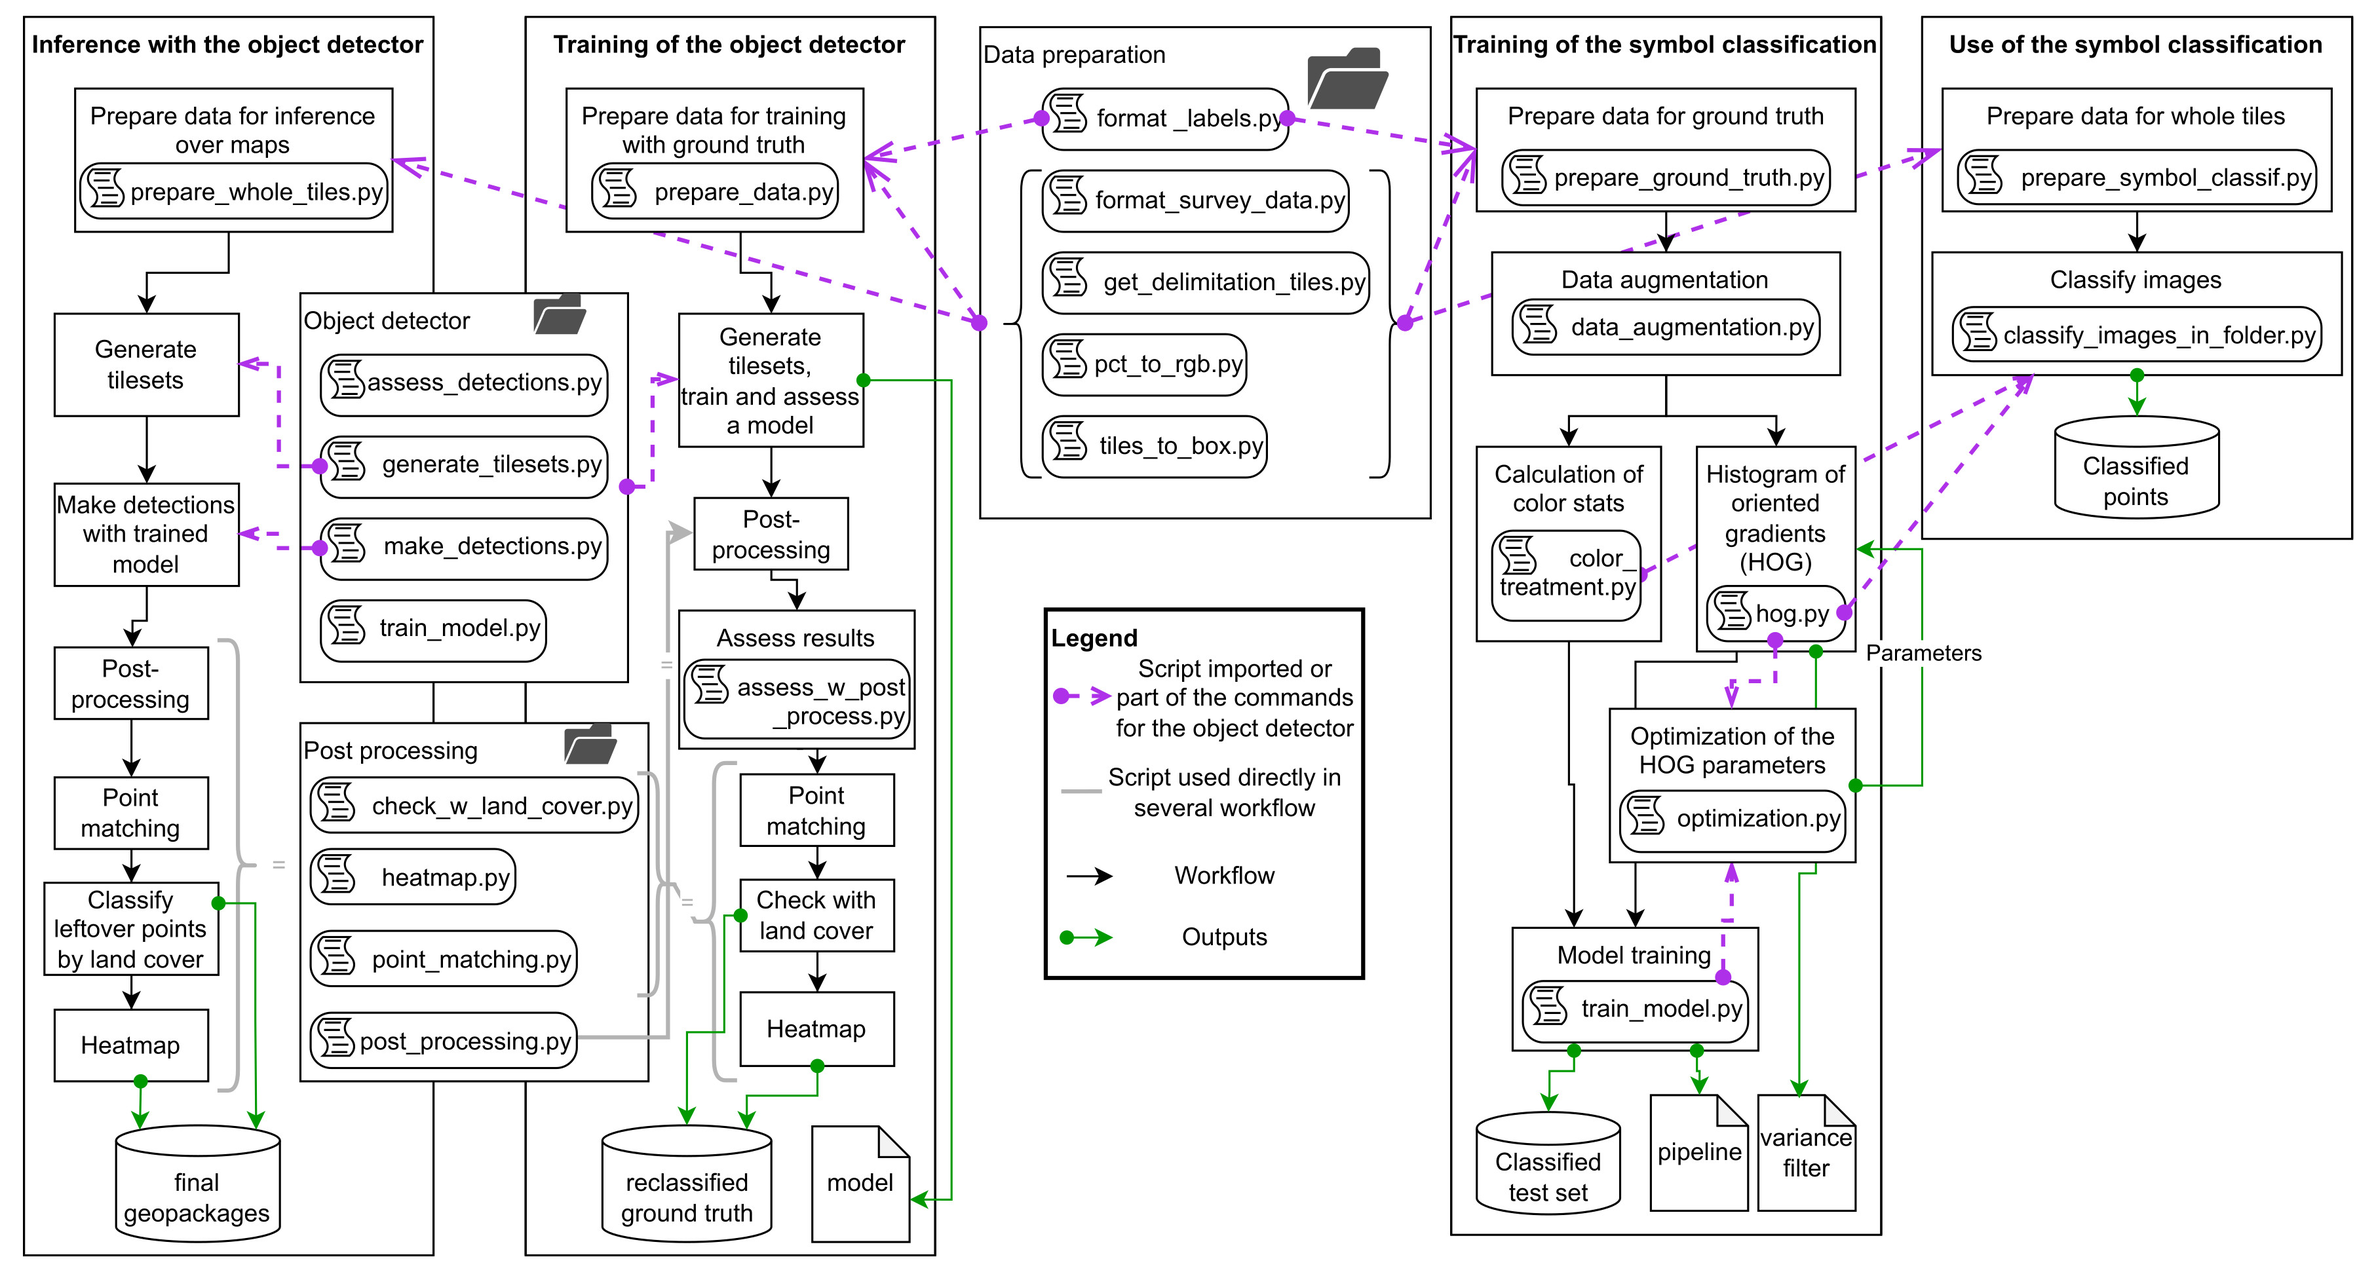
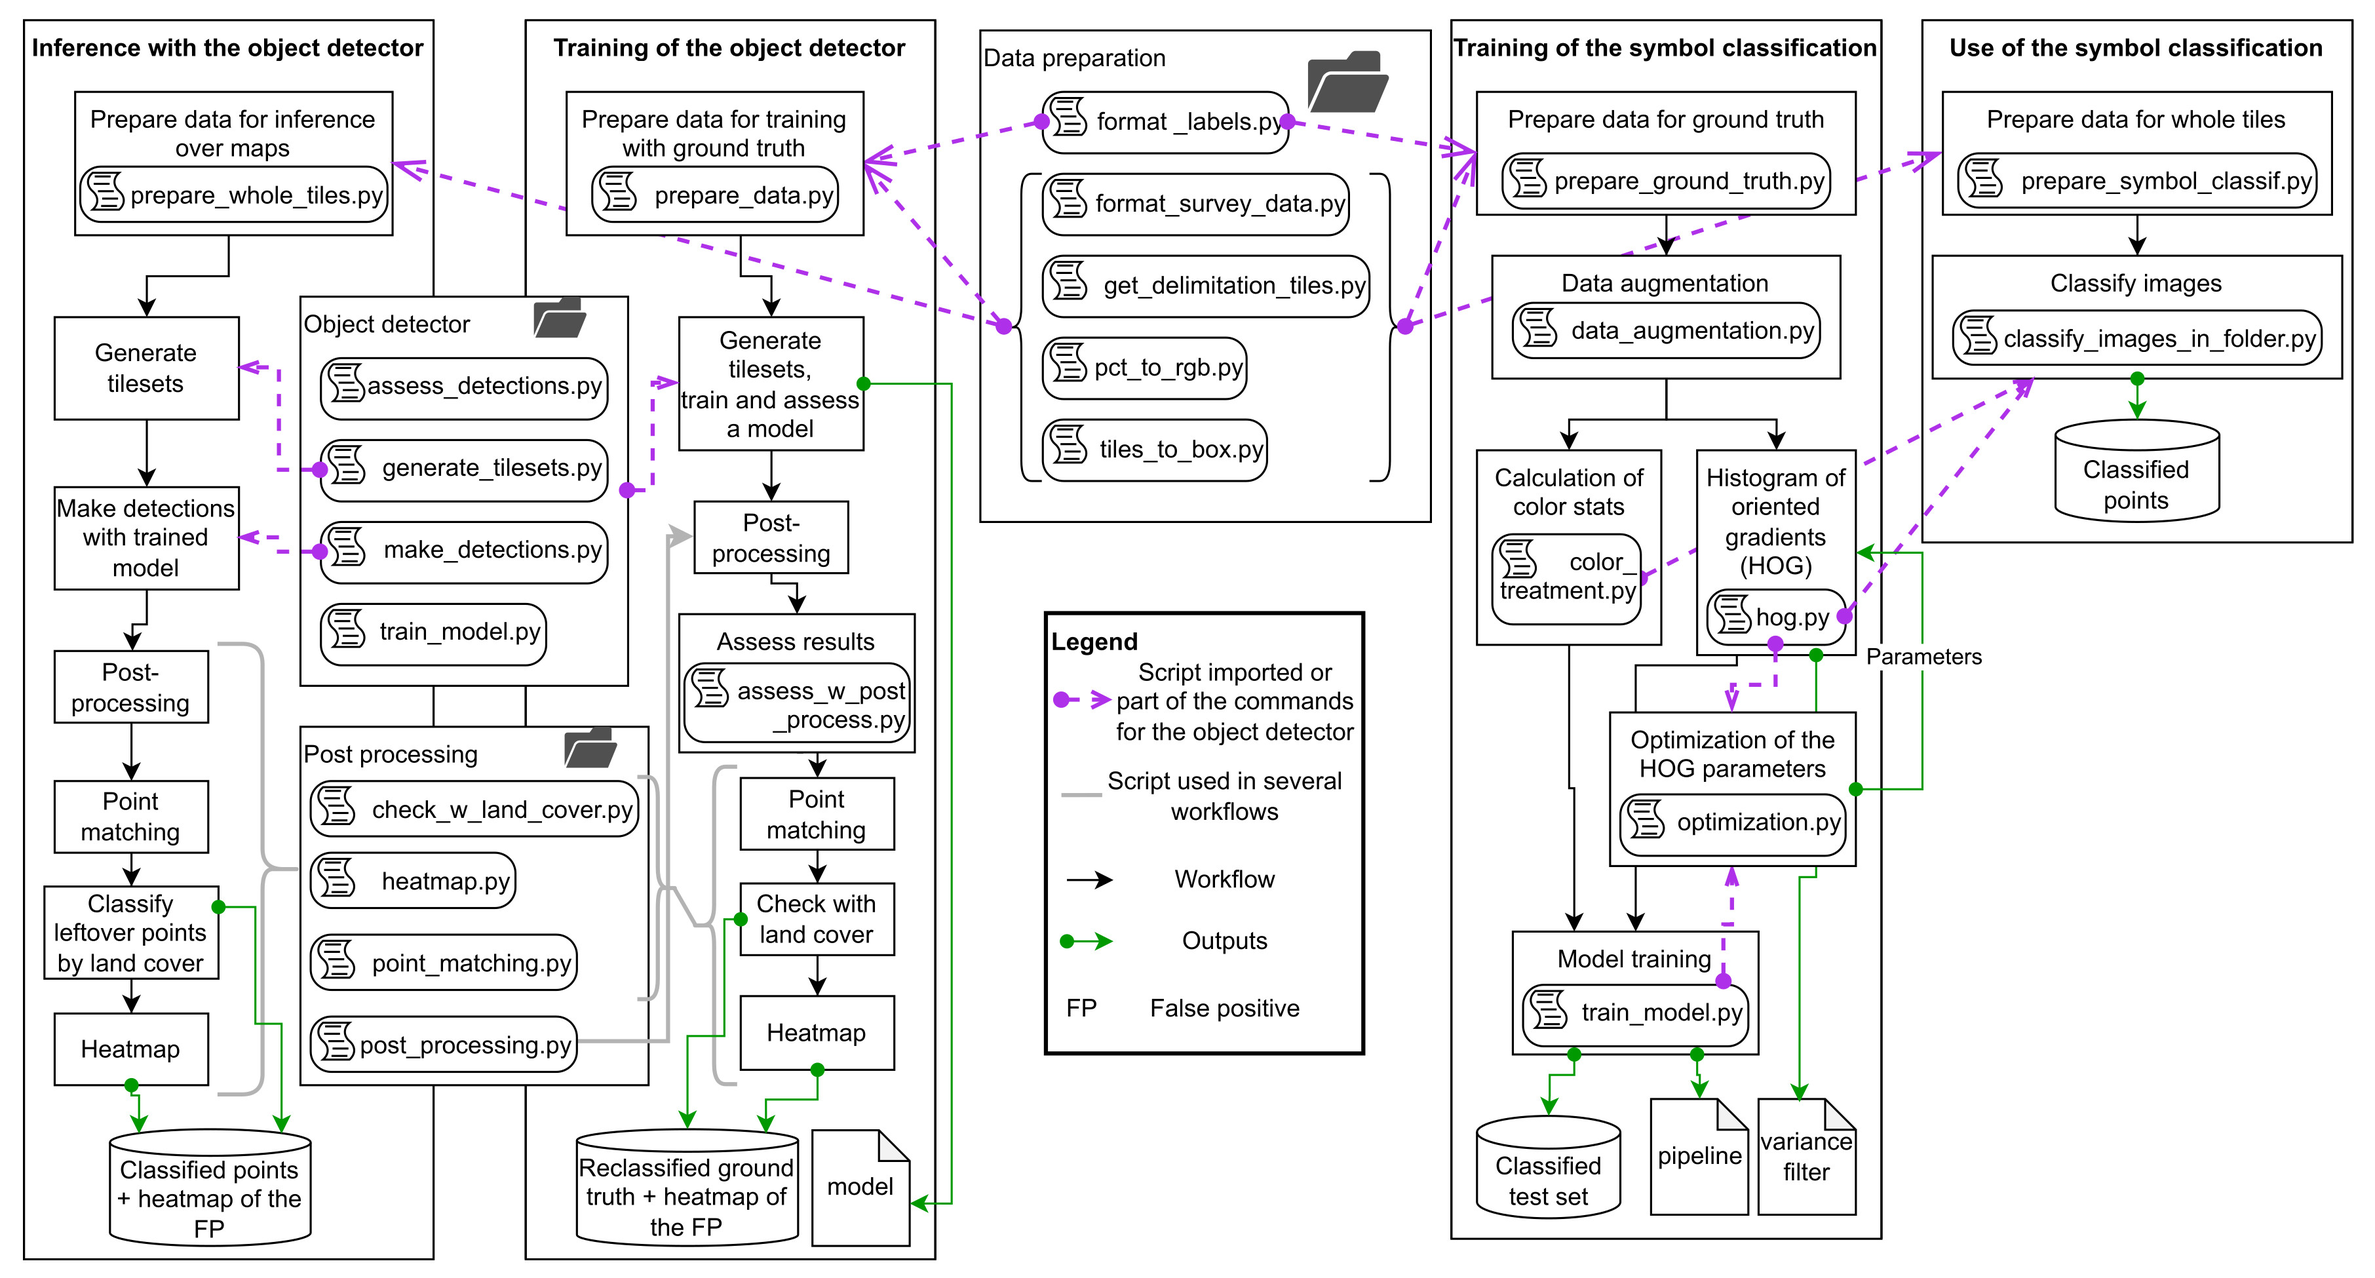
Apply CH's feedbacks

diff --git a/scripts/symbol_recognition/color_treatment.py b/scripts/symbol_recognition/color_treatment.py
@@ -72,10 +72,10 @@ def main(tiles, image_desc_gpkg=None, save_extra=False, output_dir='outputs'):
     written_files = []
         
     logger.info('Read data...')
-    if image_desc_gpkg:     # Without the images description based on the GT, don't do the parts about the category.
+    if image_desc_gpkg:     # If the symbols on the images are known from GT, save info in a dataframe
         images_gdf = gpd.read_file(image_desc_gpkg)
         images_gdf.loc[images_gdf.CATEGORY == 'undetermined', 'CATEGORY'] = 'undet'
-    else:
+    else:                   # else create an empty dataframe that will switch off parts concerning GT processing
         images_gdf = pd.DataFrame()
 
     if isinstance(tiles, tuple):
@@ -138,7 +138,7 @@ def main(tiles, image_desc_gpkg=None, save_extra=False, output_dir='outputs'):
         # Polygonize mask into one polygon
         geoms = ((shape(s), v) for s, v in shapes(mask.astype('uint8'), transform = meta_data[name]['transform']) if v == 1)
         mask_gdf = gpd.GeoDataFrame(geoms, columns=['geometry', 'class'], crs = meta_data[name]['crs'])
-        mask_gdf = gpd.GeoDataFrame([name], geometry = [mask_gdf.unary_union], columns=['geometry'], crs = meta_data[name]['crs'])
+        mask_gdf = gpd.GeoDataFrame([name], geometry = [mask_gdf.union_all()], columns=['geometry'], crs = meta_data[name]['crs'])
 
     # Define parameters
     BAND_CORRESPONDENCE = {0: 'R', 1: 'G', 2: 'B'}
@@ -183,9 +183,9 @@ def main(tiles, image_desc_gpkg=None, save_extra=False, output_dir='outputs'):
         for band in tqdm(BAND_CORRESPONDENCE.keys(), desc='Produce boxplots for each band'):
             for stat in STAT_LIST:
 
-                stats_df = stats_df_dict[band].loc[: , ['CATEGORY', stat]].copy()
-                fig = stats_df.plot.box(by='CATEGORY', y=stat)
-                fig.update_layout(title=f'{stat.title()} on the {BAND_CORRESPONDENCE[band]} band')
+                stats_df = stats_df_dict[band].loc[: , ['CATEGORY', stat]].sort_values(by=['CATEGORY'], ignore_index=True)
+                fig = stats_df.plot.box(x='CATEGORY', y=stat)
+                fig.update_layout(title=f'{stat.title()} on the {BAND_CORRESPONDENCE[band]} band', margin=dict(l=10, r=25, t=50, b=10))
                 filepath = os.path.join(output_dir, f'boxplot_filtered_stats_{BAND_CORRESPONDENCE[band]}_{stat}.webp')
                 fig.write_image(filepath)
                 written_files.append(filepath)

diff --git a/scripts/symbol_recognition/hog.py b/scripts/symbol_recognition/hog.py
@@ -26,7 +26,6 @@ logger = misc.format_logger(logger)
 def im_list_to_hog(im_list, ppc, cpb, orientations):
     hog_features = {}
     for name, image in tqdm(im_list.items()):
-        # ppc = floor(min(image.shape)/6)
         fd= hog(image, orientations=orientations, pixels_per_cell=(ppc,ppc), cells_per_block=(cpb, cpb), block_norm= 'L2', visualize=False)
         hog_features[name] = fd
 
@@ -58,13 +57,8 @@ def main(tiles, image_size=86, ppc=22, cpb=3, orientations=6, variance_threshold
     cropped_images = {k: remove_black_border(v) for k, v in data_gray.items()}
     resized_images = {}
 
-    # Get the small size of the small side of the images
-    min_size_images = {k: min(v.shape) for k, v in cropped_images.items()}
-    min_array_values = np.array(list(min_size_images.values()))
-
     # Resize images to median value of the small side
     for name, image in cropped_images.items():
-        # new_size = np.median(min_array_values)
         new_size = image_size
         if max(image.shape) <= new_size:
             resized_images[name] = resize(image, (new_size, new_size))

diff --git a/scripts/symbol_recognition/data_augmentation.py b/scripts/symbol_recognition/data_augmentation.py
@@ -41,11 +41,10 @@ def equalize_w_hist(name, image, meta, output_dir='outputs'):
     with rio.open(os.path.join(output_dir, 'aug_' + name), 'w', **meta[name]) as dst:
         dst.write(new_image.transpose(2, 0, 1))
 
-def main(tiles, output_dir='outputs'):
+def main(tile_dir, output_dir='outputs'):
 
     os.makedirs(output_dir, exist_ok=True)
 
-    tile_dir = tiles
     tile_list = glob(os.path.join(tile_dir, '*.tif'))
     image_data = {}
     meta_data = {}
@@ -65,8 +64,6 @@ def main(tiles, output_dir='outputs'):
             continue
         random_transformation = rng.choice(transformation_choices)
         random_transformation(name, image, meta_data, output_dir=output_dir)
-
-    # TODO: augment a second time for class 1r and 3b
 
     logger.success(f'Done! The output was saved in {output_dir}.')
 
@@ -98,4 +95,4 @@ if __name__ == '__main__':
 
     os.chdir(WORKING_DIR)
 
-    main(tiles=TILE_DIR, output_dir=OUTPUT_DIR)
+    main(tile_dir=TILE_DIR, output_dir=OUTPUT_DIR)

diff --git a/scripts/symbol_recognition/classify_images_in_folder.py b/scripts/symbol_recognition/classify_images_in_folder.py
@@ -21,8 +21,8 @@ logger = misc.format_logger(logger)
 
 
 def classify_points(features_gdf, image_info_gdf, id_images_wo_info, original_model_dir, model_desc=''):
-    logger.info('Merge and scale data...')
 
+    logger.info('Merge and scale data...')
     model_dir = original_model_dir if MODEL.lower() in original_model_dir.lower() \
         else os.path.join(original_model_dir, MODEL)
     # TODO: faire un pipeline et sauver celui-ci uniquement
@@ -80,7 +80,7 @@ if __name__ == '__main__':
     MODEL_DIR = cfg['model_dir']
 
     os.chdir(WORKING_DIR)
-    output_dir = OUTPUT_DIR if OUTPUT_DIR.endswith(MODEL) or OUTPUT_DIR.endswith(MODEL + '/') else os.path.join(OUTPUT_DIR, MODEL)
+    output_dir = OUTPUT_DIR if MODEL.lower() in OUTPUT_DIR.lower() else os.path.join(OUTPUT_DIR, MODEL)
     os.makedirs(output_dir, exist_ok=True)
     written_files = []
 

diff --git a/scripts/data_preparation/pct_to_rgb.py b/scripts/data_preparation/pct_to_rgb.py
@@ -106,7 +106,7 @@ def main(input_dir, output_dir='outputs/rgb_images', nodata_key=255, tile_suffix
         save_name_correspondence(name_correspondence_list, output_dir, 'original_name', 'rgb_name')
         logger.success(f"Done converting color map images to RGB! The files were written in the folder {output_dir}. Let's check them out!")
     else:
-        logger.success(f"Done converting color map images to RGB! All files were already present in folder.")
+        logger.success(f"All files were already present in folder {output_dir}. Nothing to do.")
 
 
 # ------------------------------------------

diff --git a/scripts/data_preparation/get_point_bbox_size.py b/scripts/data_preparation/get_point_bbox_size.py
@@ -90,7 +90,7 @@ if __name__ == "__main__":
 
     os.chdir(WORKING_DIR)
 
-    _, written_files = get_point_bbox_size(BORDER_POINTS, OUTPUT_DIR)
+    _, written_files = main(BORDER_POINTS, OUTPUT_DIR)
 
     print()
     logger.success(f"The file {written_files[0]} was written. Let's check it out!")

diff --git a/README.md b/README.md
@@ -1,9 +1,9 @@
-# Classification of the border points based on the cadastral map of the canton of Fribourg.
+# Classification of the border points based on the cadastral plans of the canton of Fribourg.
 
-This project aims to classify on old cadastral maps points missing in the digitized version of the official cadastral survey.
+This project aims to classify on old cadastral plans points missing in the digitized version of the official cadastral survey.
 
 *Context*: In some municipalities of Fribourg, the official cadastral survey to the MO93 standard has not yet been implemented in the land register. There, boundary points are not always represented in the official cadastral survey dataset. This leads to numerous errors when automatically checking the data consistency and makes it more difficult for users to understand the data. <br>
-These missing boundary points can be identified on old maps, but their digitization represents a considerable amount of work. Therefore, we developed this algorithm to automatically classify these points.
+These missing boundary points can be identified on old plans, but their digitization represents a considerable amount of work. Therefore, we developed this algorithm to automatically classify these points.
 
 Two methods were tested:
 
@@ -30,7 +30,7 @@ The full documentation in available on our technical website: **link**.
 
 ### Requirements
 
-The historical maps can be heavy files. In our case, 32 GB of RAM were needed to transform the color of the image from color map to RGB space. The rest of the process was performed on a machine with 16 GB of RAM and a nvidia L4 GPU.
+The historical plans can be heavy files. In our case, 32 GB of RAM were needed to transform the color of the image from color map to RGB space. The rest of the process was performed on a machine with 16 GB of RAM and a nvidia L4 GPU.
 
 The STDL's object detector can only run on *Linux* machines, as it is based on detectron2. To avoid installation conflicts, we recommend running the process in a Docker container. The steps necessary to the creation of the Docker image are described in the next section.
 
@@ -40,7 +40,7 @@ The installation is performed from this folder with the following steps:
 
 * Clone the [STDL's object detector](https://github.com/swiss-territorial-data-lab/object-detector),
 * Get into the `object-detector` folder,
-* Switch to my branch,
+<!--* Switch to my branch,-->
 * The dockerfile of this project supposes the existence on the machine of an image called `object-detector-stdl-objdet`. 
     * You can control the image existence by listing the available images with `docker images ls`.
     * If it is not available, build it from the folder of the object detector with `docker compose build`.
@@ -71,7 +71,7 @@ cd proj-borderpoints            # Command to run in the docker bash
 
 <!-- I will develop this section when we finalize the repo with some example data. For now, it's just key points. -->
 
-* Maps: RGB images or images with a color map in EPSG:2056.
+* Plans: RGB images or images with a color map in EPSG:2056.
 * Cadastral survey data: vector layer with the approximate position of cadastral points used to limit the production of tiles in the area of interest.
 
 When working with the ground truth, the following files are required in addition:
@@ -85,10 +85,10 @@ When working with the ground truth, the following files are required in addition
 
 The workflow can be divided into three parts:
 
-* Data preparation: call of the appropriate preprocessing script, *i.e.* `prepare_data.py` to work with ground truth produced over defined bounding boxes and `prepare_whole_tiles.py` to work with entire maps. More precisely, the following steps are performed:
-    - Transform the maps from a color map to RGB images,
-    - If ground truth is available, format the labels according to the requirements of the STDL's object detector and clip the maps to the bounding box of the ground truth,
-    - Generate a vector layer with the information of the subtiles dividing the maps into square tiles of 512 or 256 pixels,
+* Data preparation: call of the appropriate preprocessing script, *i.e.* `prepare_data.py` to work with ground truth produced over defined bounding boxes and `prepare_whole_tiles.py` to work with entire plans. More precisely, the following steps are performed:
+    - Transform the plans from a color map to RGB images,
+    - If ground truth is available, format the labels according to the requirements of the STDL's object detector and clip the plans to the bounding box of the ground truth,
+    - Generate a vector layer with the information of the subtiles dividing the plans into square tiles of 512 or 256 pixels,
     - Clip the map to the subtiles.
 * Detection of the border points with the STDL's object detector: the necessary documentation is available in the [associated GitHub repository](https://github.com/swiss-territorial-data-lab/object-detector)
 * Post-processing: produce one file with all the detections formatted after the experts' requirements.
@@ -99,7 +99,7 @@ The workflow can be divided into three parts:
 
 All the parameters are passed through a configuration file. Some fixed parameters are set for the whole process in `constants.py`.
 
-**Dataset with GT**
+**Training with GT**
 
 ```
 python scripts/instance_segmentation/prepare_data.py config/config_w_gt.yaml
@@ -126,7 +126,7 @@ python scripts/post_processing/check_w_land_cover.py config/config_w_gt.yaml
 python scripts/instance_segmentation/assess_point_classif.py config/config_w_gt.yaml
 ```
 
-**Whole tiles**
+**Inference on whole plans**
 
 ```
 python scripts/instance_segmentation/prepare_whole_tiles.py config/config_whole_tiles.yaml
@@ -138,7 +138,7 @@ python scripts/post_processing/check_w_land_cover.py config/config_whole_tiles.y
 python scripts/post_processing/heatmap.py config/config_whole_tiles.yaml
 ```
 
-The command lines above use the configuration files for the maps with GT areas. The configuration file `config_whole_oth_tiles.yaml` was used for maps on which no point was digitized as part of the ground truth. Only the path to the different folders should change between the two configurations.
+The command lines above use the configuration files for the plans with GT areas. The configuration file `config_whole_oth_tiles.yaml` was used for plans on which no point was digitized as part of the ground truth. Only the path to the different folders should change between the two configurations.
 
 
 ## Additional information
@@ -182,12 +182,12 @@ pip install -r requirements_classif.txt
 
 This workflow trains an algorithm to classify images of the border points.
 
-* Data preparation: call of the appropriate preprocessing script, _i.e._ `prepare_ground_truth.py` to work with ground truth produced over defined bounding boxes and `prepare_symbol_classif.py` to work with entire maps. More precisely, the following steps are performed:
-    1. Transform the maps from a color map to RGB images,
-    2. Determine the symbol size at each map scale based on the ground truth,
-    3. Generate a vector layer with the map information and delineation,
-    4. Join survey points to maps and create a unique id based on point and map,
-    5. Clip the map to the survey points based on the determined symbol size from step ii.
+* Data preparation: call of the appropriate preprocessing script, _i.e._ `prepare_ground_truth.py` to work with ground truth produced over defined bounding boxes and `prepare_symbol_classif.py` to work with entire plans. More precisely, the following steps are performed:
+    1. Transform the plans from a color map to RGB images,
+    2. Determine the symbol size at each plan scale based on the ground truth,
+    3. Generate a vector layer with the plan information and delineation,
+    4. Join survey points to plans and create a unique id based on point and plan,
+    5. Clip the plan to the survey points based on the determined symbol size from step ii.
 * (*facultative*) Data augmentation: double the number of training images by flipping them and changing slightly the colorimetry with the script `data_augmentation.py`.
 * Feature extraction:
     - `color_treatment.py`: Create a mask indicating the symbol area on the image,	calculate the zonal stats on each color band for the determined areas,
@@ -205,7 +205,7 @@ The optimization for the classification was performed with the `optuna` package 
 
 Below, the command lines are presented for the algorithm version with a single model for the classification.
 
-**Points with GT**
+**Training with GT**
 
 ```
 python scripts/symbol_recognition/prepare_ground_truth.py config/config_symbol_classif.yaml
@@ -215,7 +215,7 @@ python scripts/symbol_recognition/color_treatment.py config/config_symbol_classi
 python scripts/symbol_recognition/train_model.py config/config_symbol_classif.yaml
 ```
 
-**Points on an entire map**
+**Classification of border points on entire plans**
 
 ```
 python scripts/symbol_recognition/prepare_symbol_classif.py config/config_symbol_classif.yaml
